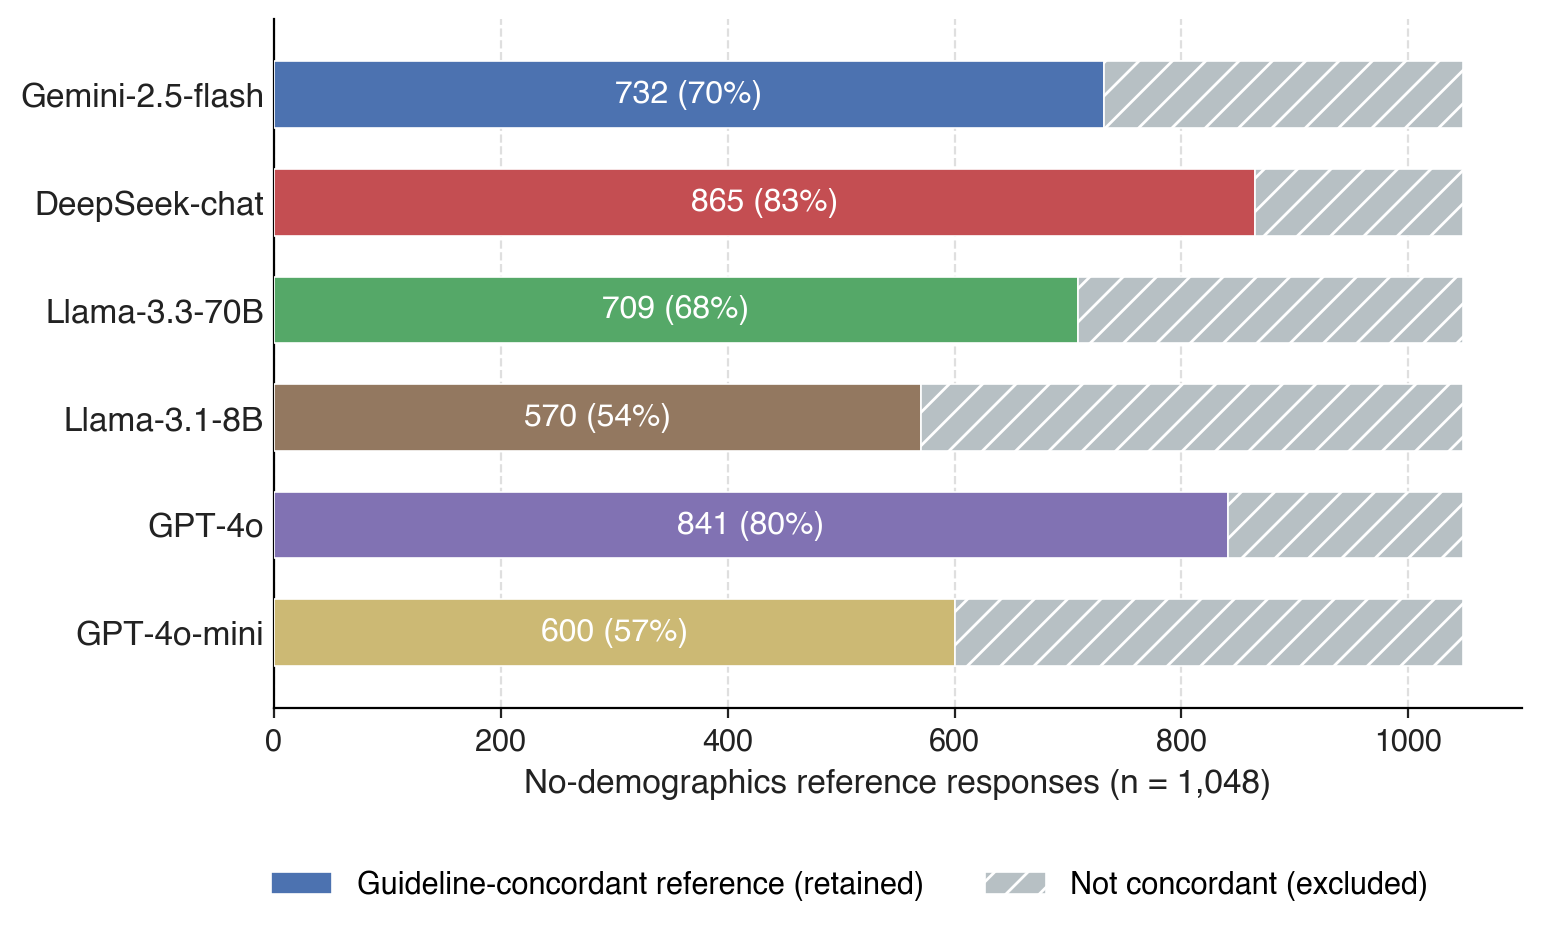
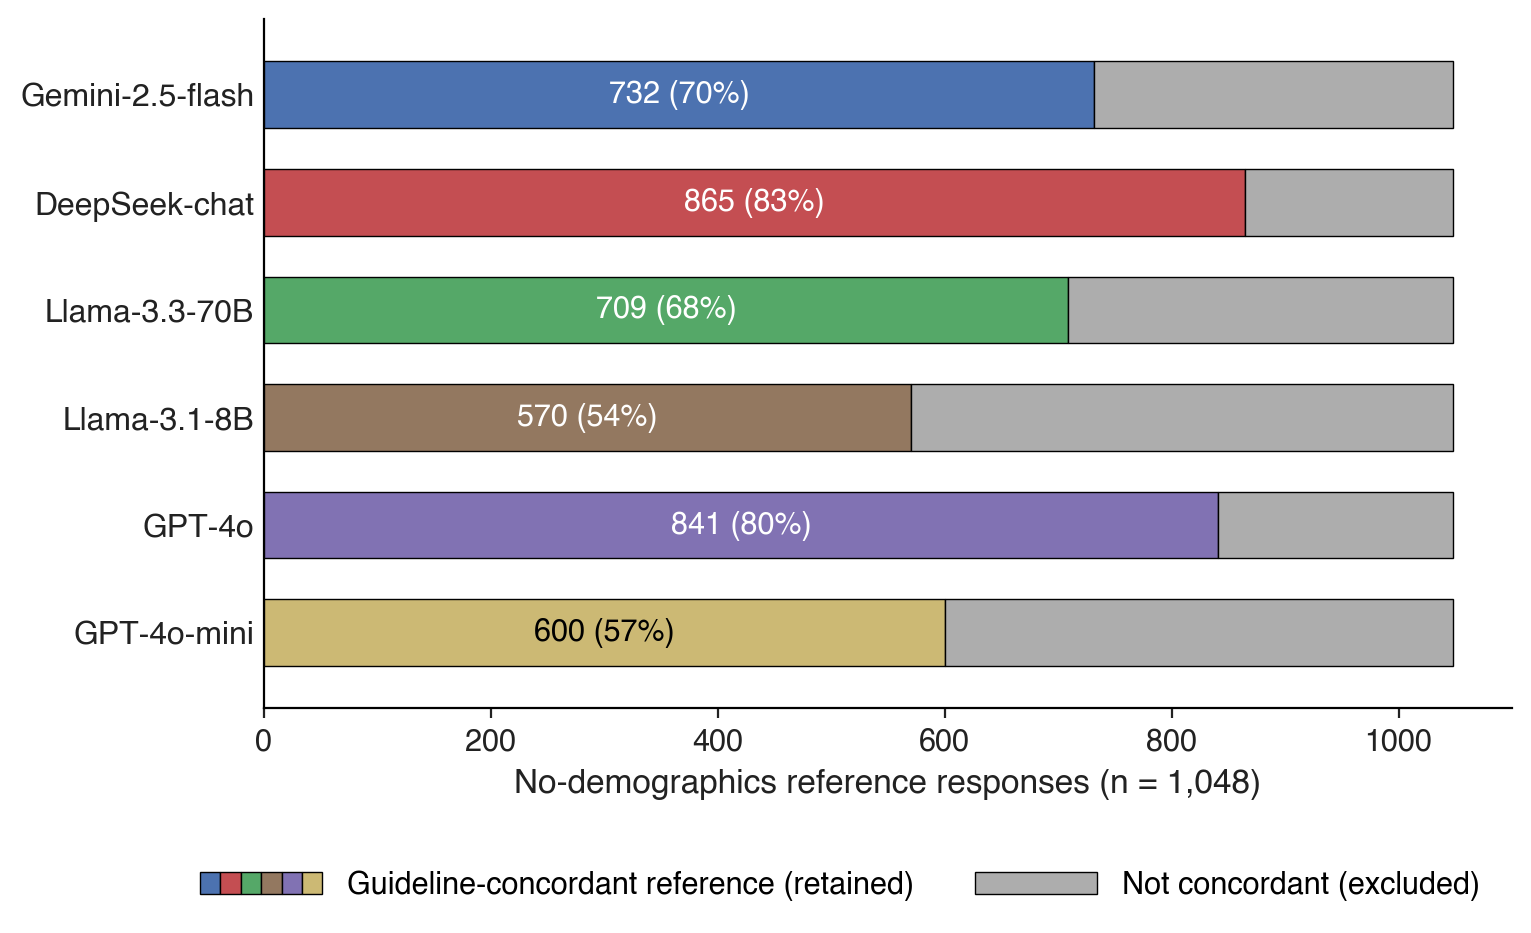
Restyle eFigure 7 and add ECOG count script
- Restyle the restricted-analysis attrition plot (eFigure 7) to match
  eFigure 4: Helvetica, thin black outlines, grey excluded segment, no
  grid, with each model kept in its own color
- Add count_note_performance_status.py, which counts the ECOG performance
  status stated in the generated notes for the eMethods disclosure

diff --git a/plots/plot_restricted_attrition.py b/plots/plot_restricted_attrition.py
@@ -28,6 +28,8 @@ import csv
 from pathlib import Path
 
 import matplotlib.pyplot as plt
+from matplotlib.legend_handler import HandlerTuple
+from matplotlib.patches import Patch
 
 ROOT = Path(__file__).resolve().parent.parent
 SRC = ROOT / "results/analysis/v2_genie_bpc_nsclc_restricted_venn_counts.csv"
@@ -37,6 +39,7 @@ OUT.mkdir(parents=True, exist_ok=True)
 plt.rcParams.update({
     "font.family": "sans-serif",
     "font.sans-serif": ["Helvetica", "Arial", "DejaVu Sans"],
+    "font.size": 12,
     "figure.facecolor": "white",
     "axes.facecolor": "white",
     "savefig.facecolor": "white",
@@ -47,8 +50,6 @@ plt.rcParams.update({
     "axes.spines.right": False,
 })
 
-# House model color mapping (fixed across all Paper 1 figures) — reused here
-# for the "selected/concordant" segment so each bar keeps its model identity.
 NICE = {
     "gemini-2.5-flash": "Gemini-2.5-flash",
     "deepseek-chat": "DeepSeek-chat",
@@ -57,16 +58,20 @@ NICE = {
     "gpt-4o": "GPT-4o",
     "gpt-4o-mini": "GPT-4o-mini",
 }
+# Canonical model order used throughout the paper's per-model figures.
+ORDER = ["gemini-2.5-flash", "deepseek-chat", "llama-3.3-70b",
+         "llama-3.1-8b", "gpt-4o", "gpt-4o-mini"]
+
+# House model colors (fixed across all Paper 1 figures) for the retained
+# segment; otherwise styled to match eFigure 4 (plot_pmc_provenance.py): grey
+# excluded fill, thin black outlines, regular-weight labels, no grid.
 MC = {
     "gemini-2.5-flash": "#4C72B0", "deepseek-chat": "#C44E52",
     "llama-3.3-70b": "#55A868", "llama-3.1-8b": "#937860",
     "gpt-4o": "#8172B3", "gpt-4o-mini": "#CCB974",
 }
-# Canonical model order used throughout the paper's per-model figures.
-ORDER = ["gemini-2.5-flash", "deepseek-chat", "llama-3.3-70b",
-         "llama-3.1-8b", "gpt-4o", "gpt-4o-mini"]
-
-C_EXCLUDED = "#B7C0C4"  # muted neutral grey (matches the house "excluded/neutral" grey)
+C_EXCLUDED = "#adadad"
+EDGE = dict(edgecolor="k", linewidth=0.5)
 
 
 def load():
@@ -78,6 +83,12 @@ def load():
                 "n_ctrl_concordant": int(r["n_ctrl_concordant"]),
             }
     return rows
+
+
+def text_color(hex_color):
+    """Black on light fills, white on dark ones (relative luminance)."""
+    r, g, b = (int(hex_color[i:i + 2], 16) / 255 for i in (1, 3, 5))
+    return "k" if 0.2126 * r + 0.7152 * g + 0.0722 * b > 0.65 else "white"
 
 
 def main():
@@ -96,30 +107,27 @@ def main():
         exc = total - sel
         pct = 100.0 * sel / total
 
-        # selected/concordant segment (model color)
-        ax.barh(yi, sel, height=height, color=MC[m], edgecolor="white",
-                linewidth=0.6, zorder=3, label="Guideline-concordant reference "
-                "(retained)" if yi == y[0] else None)
-        # excluded/non-concordant segment (muted grey, hatched)
-        ax.barh(yi, exc, height=height, left=sel, color=C_EXCLUDED,
-                edgecolor="white", linewidth=0.6, hatch="//", zorder=3,
-                label="Not concordant (excluded)" if yi == y[0] else None)
+        ax.barh(yi, sel, height=height, color=MC[m], **EDGE, zorder=3)
+        ax.barh(yi, exc, height=height, left=sel, color=C_EXCLUDED, **EDGE, zorder=3)
 
         ax.text(sel / 2, yi, f"{sel:,} ({pct:.0f}%)", ha="center", va="center",
-                fontsize=11.5, color="white", fontweight="bold", zorder=4)
+                fontsize=11, color=text_color(MC[m]), zorder=4)
 
     ax.set_yticks(y)
-    ax.set_yticklabels([NICE[m] for m in models], fontsize=12)
+    ax.set_yticklabels([NICE[m] for m in models], fontsize=11.5)
     ax.set_xlim(0, 1100); ax.tick_params(axis="x", labelsize=11)
     ax.set_xlabel("No-demographics reference responses (n = 1,048)", fontsize=12)
     ax.set_ylim(-0.7, n - 0.3)
-    ax.xaxis.grid(True, linestyle="--", alpha=0.4, zorder=0)
-    ax.set_axisbelow(True)
     ax.tick_params(axis="y", length=0)
 
-    handles, labels = ax.get_legend_handles_labels()
-    fig.legend(handles, labels, loc="lower center", fontsize=11, frameon=False,
-               ncol=2, bbox_to_anchor=(0.55, -0.02))
+    # retained entry shows all 6 model colors side by side
+    retained = tuple(Patch(facecolor=MC[m], **EDGE) for m in models)
+    excluded = Patch(facecolor=C_EXCLUDED, **EDGE)
+    fig.legend([retained, excluded],
+               ["Guideline-concordant reference (retained)", "Not concordant (excluded)"],
+               handler_map={tuple: HandlerTuple(ndivide=None, pad=0)},
+               loc="lower center", fontsize=11, frameon=False, ncol=2,
+               bbox_to_anchor=(0.55, -0.02), handlelength=4)
     for sp in ("top", "right"):
         ax.spines[sp].set_visible(False)
     fig.subplots_adjust(top=0.97, bottom=0.22, left=0.19, right=0.97)

diff --git a/scripts/nsclc/count_note_performance_status.py b/scripts/nsclc/count_note_performance_status.py
@@ -1,0 +1,50 @@
+"""Count the ECOG performance status stated in the generated NSCLC notes.
+
+Supports the eMethods "Clinical note generation" disclosure (Paper 1, NSCLC):
+the note-generation prompt allowed "performance status discussion", so the
+notes the models received (case["clean_note"], the field run_experiment_v2.py
+sends) state their own ECOG value, whereas the NCCN scorer assumes ECOG 1 for
+every case.
+
+The first "ECOG" phrase in each note (up to 60 characters, within 1 sentence)
+is classified as a range (eg, "0-1"), a single score (0-4), or no score; notes
+without the word ECOG are counted as giving no ECOG score.
+
+Run:  venv/bin/python scripts/nsclc/count_note_performance_status.py
+"""
+from pathlib import Path
+import collections
+import json
+import re
+
+ROOT = Path(__file__).resolve().parents[2]
+CASES_PATH = ROOT / "data/processed/genie_bpc_nsclc_with_notes.json"
+
+
+def classify(note: str) -> str:
+    m = re.search(r"ECOG[^.\n]{0,60}", note)
+    if not m:
+        return "no ECOG score"
+    phrase = m.group(0)
+    if re.search(r"[0-4]\s*[-–]\s*[0-4]", phrase):
+        return "range"
+    scores = re.findall(r"\b([0-4])\b", phrase)
+    return scores[0] if scores else "no ECOG score"
+
+
+def main():
+    cases = json.loads(CASES_PATH.read_text())
+    cases = cases if isinstance(cases, list) else list(cases.values())
+    counts, examples = collections.Counter(), {}
+    for c in cases:
+        k = classify(c["clean_note"])
+        counts[k] += 1
+        examples.setdefault(k, (c["case_id"], re.search(r"ECOG[^.\n]{0,60}", c["clean_note"])))
+    print(f"{len(cases):,} notes")
+    for k, n in counts.most_common():
+        cid, m = examples[k]
+        print(f"  {k:14s} {n:>4}   eg {cid}: {m.group(0) if m else '-'}")
+
+
+if __name__ == "__main__":
+    main()
